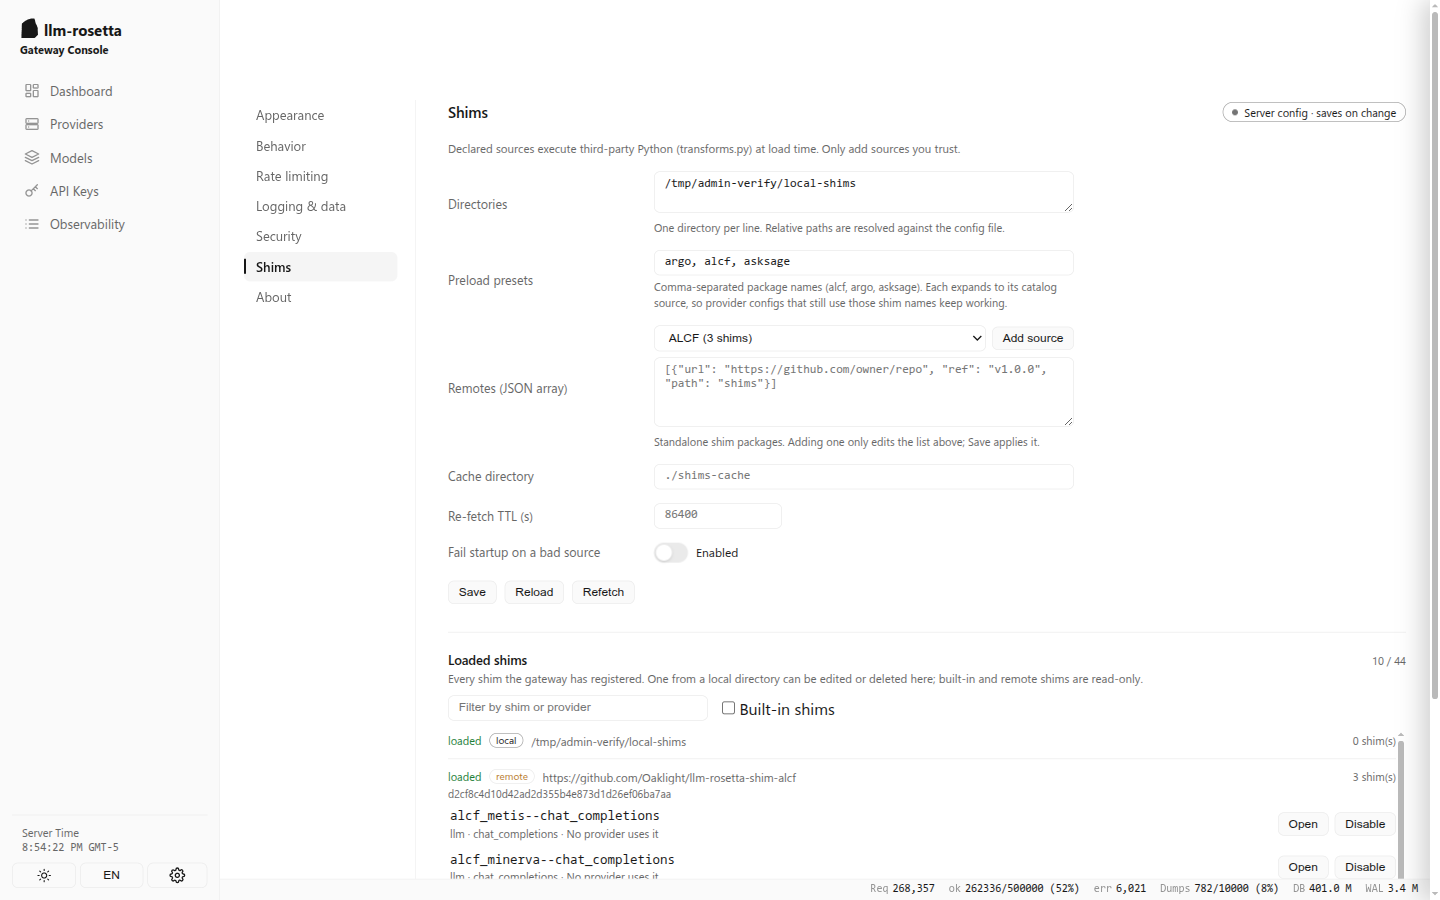
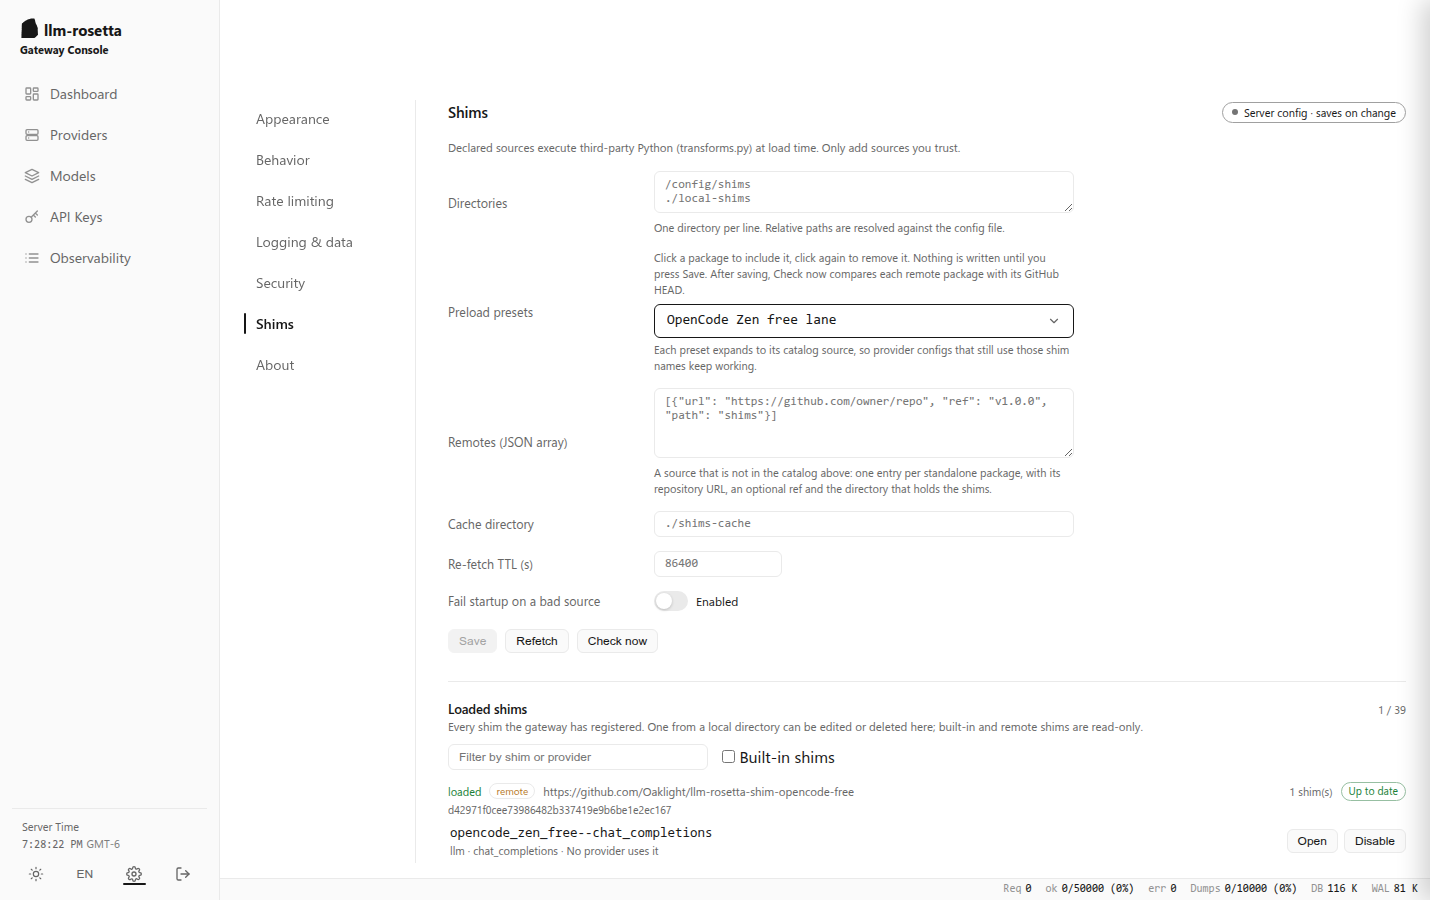
docs(admin): the shims pane documents the dropdown, Save's apply and the update badges

diff --git a/docs/gateway/admin-panel.md b/docs/gateway/admin-panel.md
@@ -265,13 +265,13 @@ The **Shims** pane declares external sources and lists what loaded.
 
 ![Settings — shims](images/admin-shims.png)
 
-**Declared sources** — the top-level `shims` section (see [External Shim Sources](configuration.md#external-shim-sources)): **Directories** (one per line), **Preload presets** (catalog keys such as `argo, alcf, asksage`), **Remotes** (a JSON array), and the remaining knobs — cache directory, re-fetch TTL and fail-startup-on-a-bad-source. **Save** persists the section and re-applies it; **Reload** re-applies the current config; **Refetch** forces every remote to be downloaded again, bypassing its cache and `refresh` mode. A source that fails is reported here without stopping the gateway.
+**Declared sources** — the top-level `shims` section (see [External Shim Sources](configuration.md#external-shim-sources)): **Directories** (one per line), **Preload presets** (a dropdown of catalog packages), **Remotes** (a JSON array), and the remaining knobs — cache directory, re-fetch TTL and fail-startup-on-a-bad-source. **Save** persists the section and re-applies it, so a source removed here stops loading without a restart; **Refetch** forces every remote to be downloaded again, bypassing its cache and `refresh` mode; **Check now** re-reads each remote's commit from GitHub and refreshes the update badges. A source that fails is reported here without stopping the gateway.
 
-**Preset catalog.** Above the remotes list, a catalog offers every standalone shim package the gateway knows about — ALCF, Argo and AskSage. Choosing one and pressing **Add source** appends its expanded `shims.remotes` entry to the JSON list below — it does **not** save, so the entry goes through the same review and the same **Save** as one typed by hand. The **Preload presets** field is the shorter spelling: catalog keys that expand server-side, with an explicit remote overriding its preset when the URLs match. An entry whose `url` is already in the list is not added a second time, and the button says so. See [Standalone shim packages](../guide/shims.md#standalone-shim-packages).
+**Preload presets.** The dropdown lists every standalone shim package the gateway knows about, each row carrying its name and shim count with the repository on hover — free resources above paid packages. Clicking a row toggles its key in `shims.presets`; nothing is written until **Save**, which is why the pane keeps a one-line guide beside the picker and an *Unsaved changes* note next to the button. A key expands server-side, and an explicit remote overrides its preset when the URLs match; a declared key this catalog does not know has no row, stays in the declaration and is named by the trigger. See [Standalone shim packages](../guide/shims.md#standalone-shim-packages).
 
-**Loaded shims.** Below the sources, the inventory lists every registered shim, grouped by the source it came from — the group head carries the source's state, resolved ref, count and any failure, so "what loaded" and "where from" are one answer. A shim in a declared local directory can be opened, edited and deleted here; an edit that does not load is rolled back to the previous file, and deletion is refused while a configured provider still names the shim. A shim can also be **disabled** and re-enabled through `shims.disabled` — a declaration rather than a deletion, so the same definition comes back. Built-in and remote shims are read-only, with the reason on the row; so is a definition sitting at the root of a declared source, because the loader does not read it and removing "its directory" would take the whole source.
+**Loaded shims.** Below the sources, the inventory lists every registered shim, grouped by the source it came from — the group head carries the source's state, resolved ref, count, any failure, and the update verdict: *Up to date*, *Update `<old>` → `<new>`* (clicking refetches that source at the new commit) or *Check failed*, with the API error on hover. The verdict compares the commit the source was fetched at with the commit its declared ref — or the default branch, for a source with no `ref` — points at now; the answer is cached for five minutes. A shim in a declared local directory can be opened, edited and deleted here; an edit that does not load is rolled back to the previous file, and deletion is refused while a configured provider still names the shim. A shim can also be **disabled** and re-enabled through `shims.disabled` — a declaration rather than a deletion, so the same definition comes back. Built-in and remote shims are read-only, with the reason on the row; so is a definition sitting at the root of a declared source, because the loader does not read it and removing "its directory" would take the whole source.
 
-**Removal advisories.** Below the inventory, the advisories name each provider in the config whose shim is going away, the release that removes it and the source that replaces it — with the same **Add source** action. The list is derived per request from the config and the load report, so it is current without a restart.
+**Removal advisories.** Below the inventory, the advisories name each provider in the config whose shim is going away, the release that removes it and the source that replaces it — with an **Add the replacement source** action that appends it to the remotes list. The list is derived per request from the config and the load report, so it is current without a restart.
 
 !!! warning
     A declared shim directory or archive runs third-party Python

diff --git a/docs/guide/shims.md b/docs/guide/shims.md
@@ -481,14 +481,15 @@ Clicking a row adds or removes it from `shims.presets` — but nothing is writte
 until **Save**, which is why the pane keeps a guide beside the picker and an
 *Unsaved changes* note next to the button. Save writes the same
 comma-separated list of keys you can also write by hand. A key the running
-catalog does not know is left in place until you next change the selection, so
-a config written against a newer catalog is not silently rewritten.
+catalog does not know gets no row, but it stays in the declaration and the
+trigger still names it, so a config written against a newer catalog is not
+silently rewritten.
 
 **Check whether a remote has moved.** A remote source is fetched once and
 pinned to the commit it came from, so a later run reuses that commit even when
 the repository has advanced. The inventory shows the verdict on the source's
 row: *Up to date*, *Update `<old>` → `<new>`* (click it to refetch that source
-at the new HEAD), or *Check failed* with the reason on hover. **Check now**
+at the new commit), or *Check failed* with the reason on hover. **Check now**
 asks again immediately; otherwise the answer is cached for five minutes.
 
 `shims.presets` expands a catalog key into the repository, path and token
@@ -520,9 +521,9 @@ because none of them is tagged yet: a remote without a `ref` resolves `HEAD` to
 a commit once and records it in the cache stamp. Once they are tagged, pin the
 tag — see [Ref resolution](../gateway/configuration.md#external-shim-sources).
 
-**Settings → Shim Sources** offers every catalog package as a one-click preset
-(and a text field for the same keys); saving writes `presets` or the expanded
-remote to the config. A config that still names one of these shims without a
+**Settings → Shim Sources** offers every catalog package in one dropdown — a
+row per package, free resources first — and saving writes `presets` or the
+expanded remote to the config. A config that still names one of these shims without a
 declared source gets a startup error naming the package, the preset and the
 expanded remote; once the source loads, the error goes away.
 
